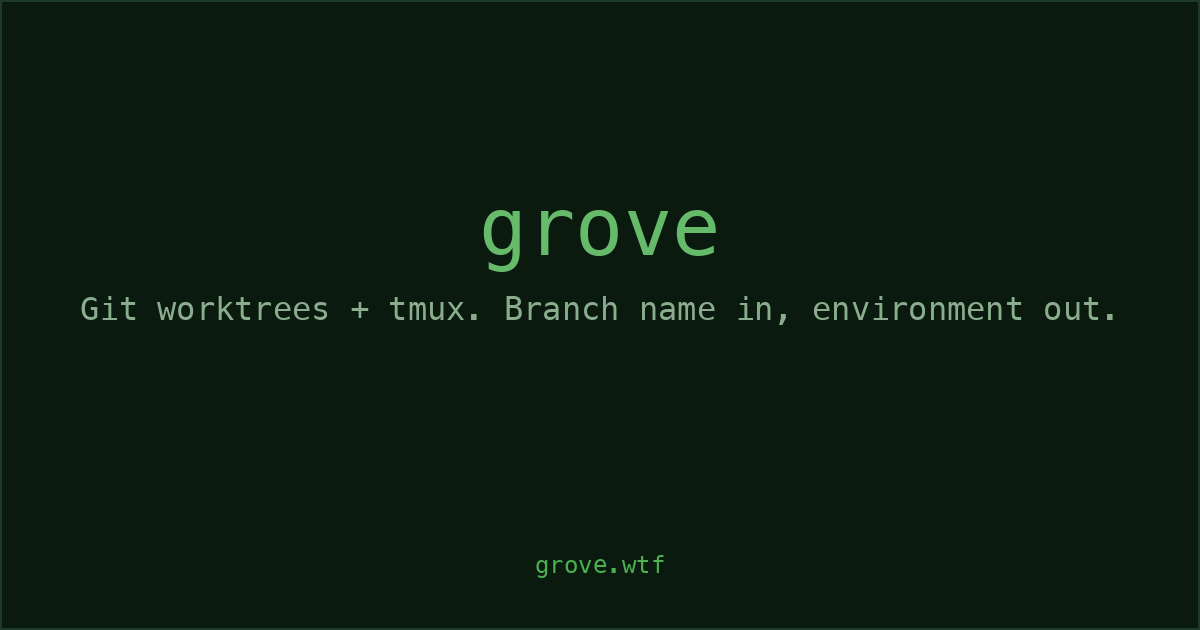
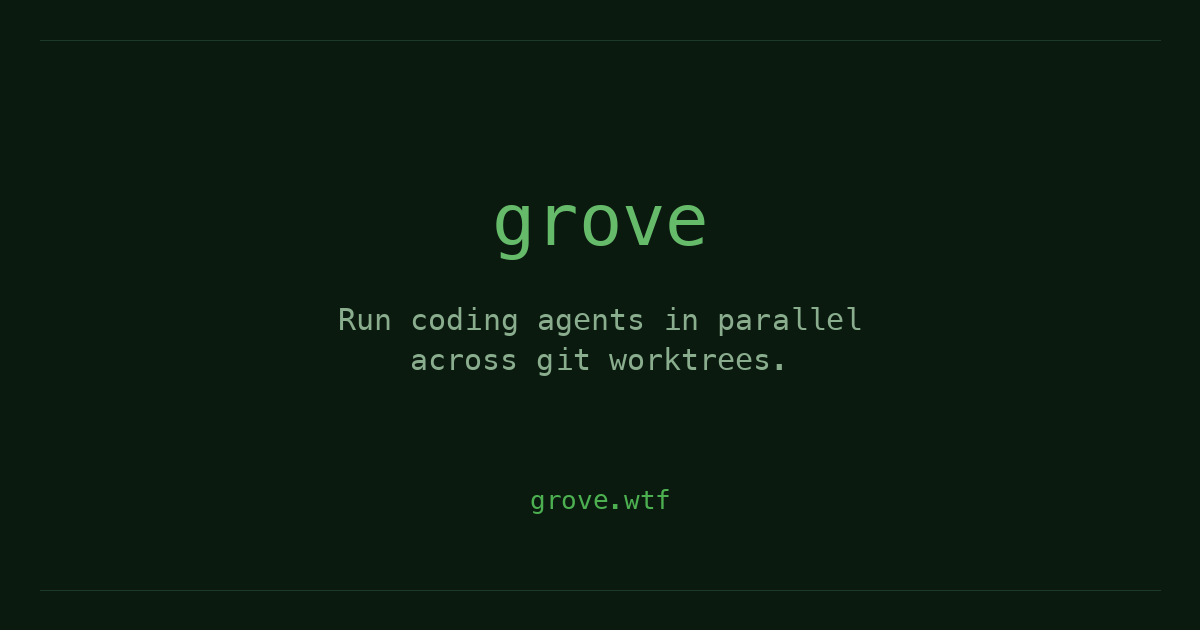
macOS compat, GROVE_AGENT_FLAGS, cross-platform CI (#17) (#17)
- macOS compat: GROVE_OS detection, file_mtime(), grep -oE, launch_agent() with platform-aware `script`
- GROVE_AGENT_FLAGS: build_agent_cmd() respects override, interactive prompt in `grove init`, help/README/docs
- install.sh: cleaner dtach install flow with early error on unsupported platform
- CI: matrix strategy with ubuntu-latest + macos-latest
- OG image: generate-og.sh + regenerated og.png
- Test fix: macOS-compatible date in test 30

diff --git a/docs/index.html b/docs/index.html
@@ -472,6 +472,7 @@ Setup (runs once per worktree, empty line to skip):
     <div class="demo">
 <span class="comment"># ~/.grove — pick your agent (global, all repos)</span>
 GROVE_AGENT=<span class="string">"claude"</span>
+<span class="comment"># GROVE_AGENT_FLAGS="--dangerously-skip-permissions"  # override default flags</span>
 
 <span class="comment"># Grovefile — per-repo setup (optional)</span>
 GROVE_PROJECT=<span class="string">"myapp"</span>

diff --git a/README.md b/README.md
@@ -70,7 +70,10 @@ Set your coding agent. Created by `gr init` or write manually:
 
 ```bash
 GROVE_AGENT="claude"     # or codex, aider, etc.
+# GROVE_AGENT_FLAGS="--dangerously-skip-permissions"  # override default agent flags
 ```
+
+**Agent flags:** Background agents can't ask for permission, so grove passes `--dangerously-skip-permissions` to Claude by default. Set `GROVE_AGENT_FLAGS` to override this — even `GROVE_AGENT_FLAGS=""` to run with no extra flags. When unset, smart defaults apply.
 
 ### `Grovefile` (per-repo, optional)
 
